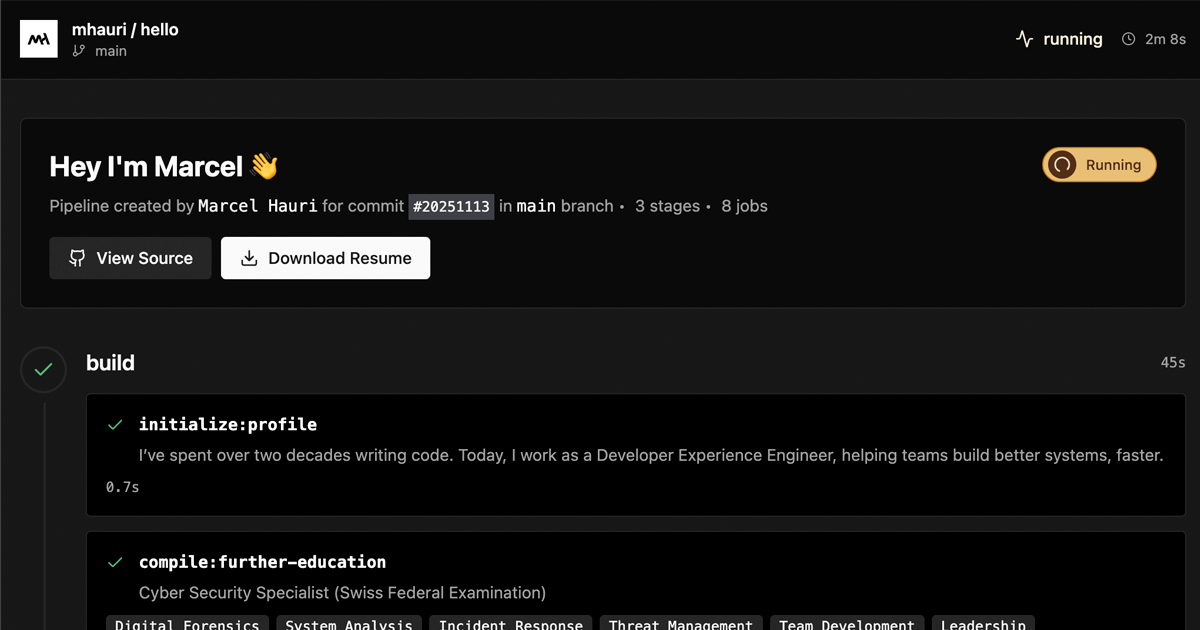
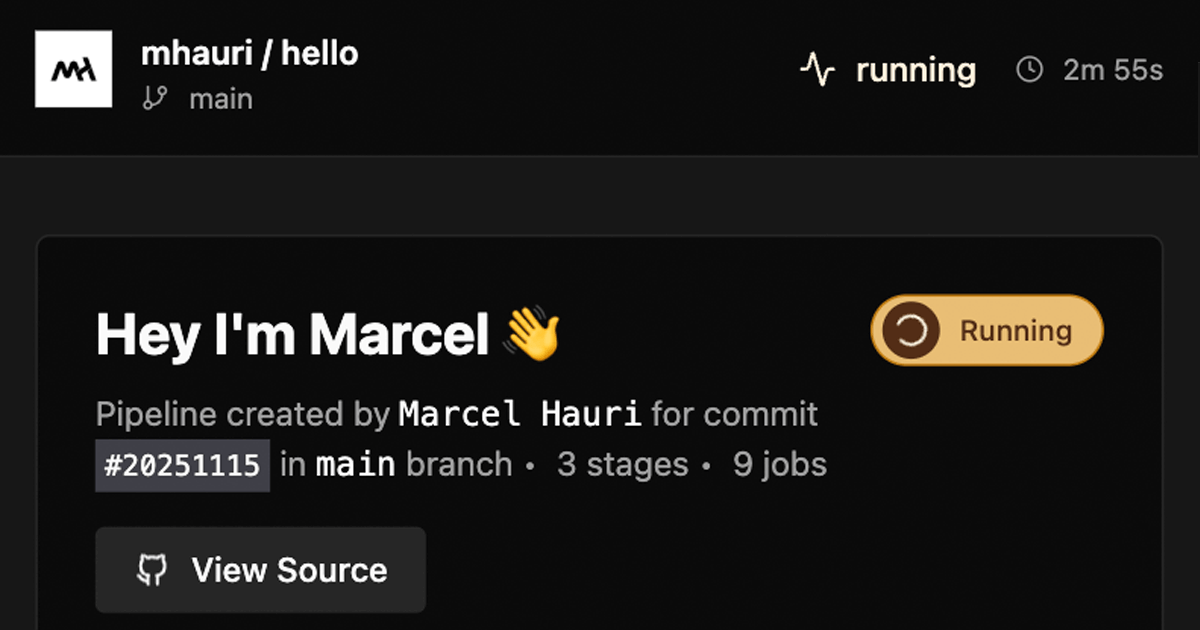
[task] update jobs

diff --git a/app/components/PipelineOverview.vue b/app/components/PipelineOverview.vue
@@ -11,7 +11,7 @@
             class="text-foreground font-mono bg-zinc-700 p-1 text-xs">{{ buildNumber }}</span> in <span
             class="text-foreground font-mono">main</span> branch •
           <span class="text-muted-foreground ml-1">3 stages</span> •
-          <span class="text-muted-foreground ml-1">9 jobs</span>
+          <span class="text-muted-foreground ml-1">7 jobs</span>
         </p>
       </div>
       <StatusBadge type="running" label="Running"/>

diff --git a/app/components/PipelineSummary.vue b/app/components/PipelineSummary.vue
@@ -14,7 +14,7 @@
       </div>
       <div class="text-left md:text-right">
         <p class="text-muted-foreground mb-1">Jobs Completed</p>
-        <p class="text-foreground font-mono font-semibold">7 / 9</p>
+        <p class="text-foreground font-mono font-semibold">5 / 7</p>
       </div>
     </div>
   </div>
